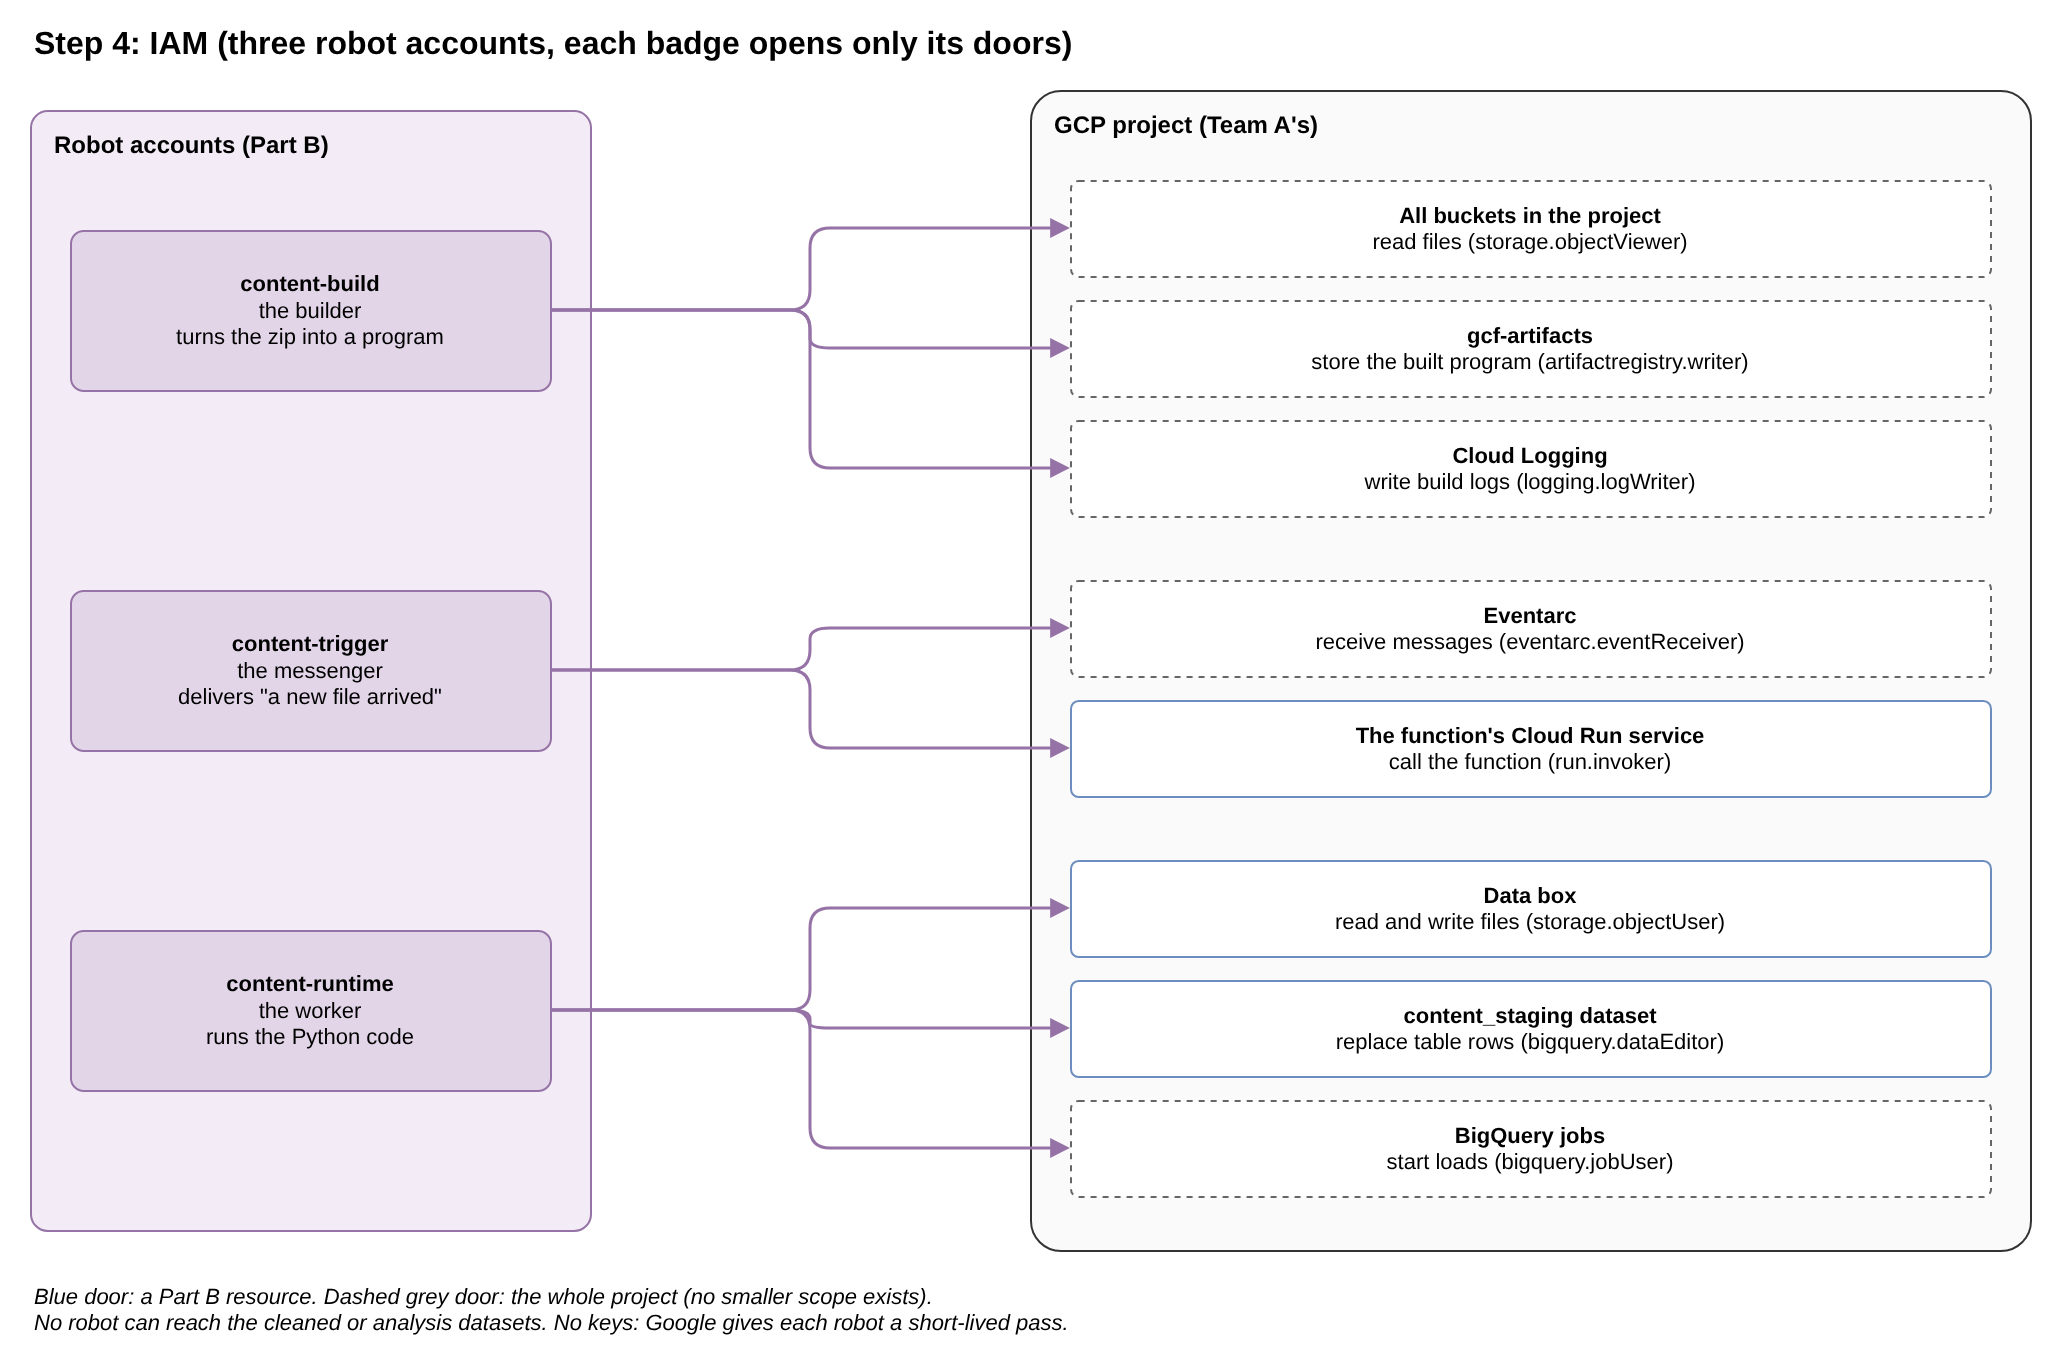
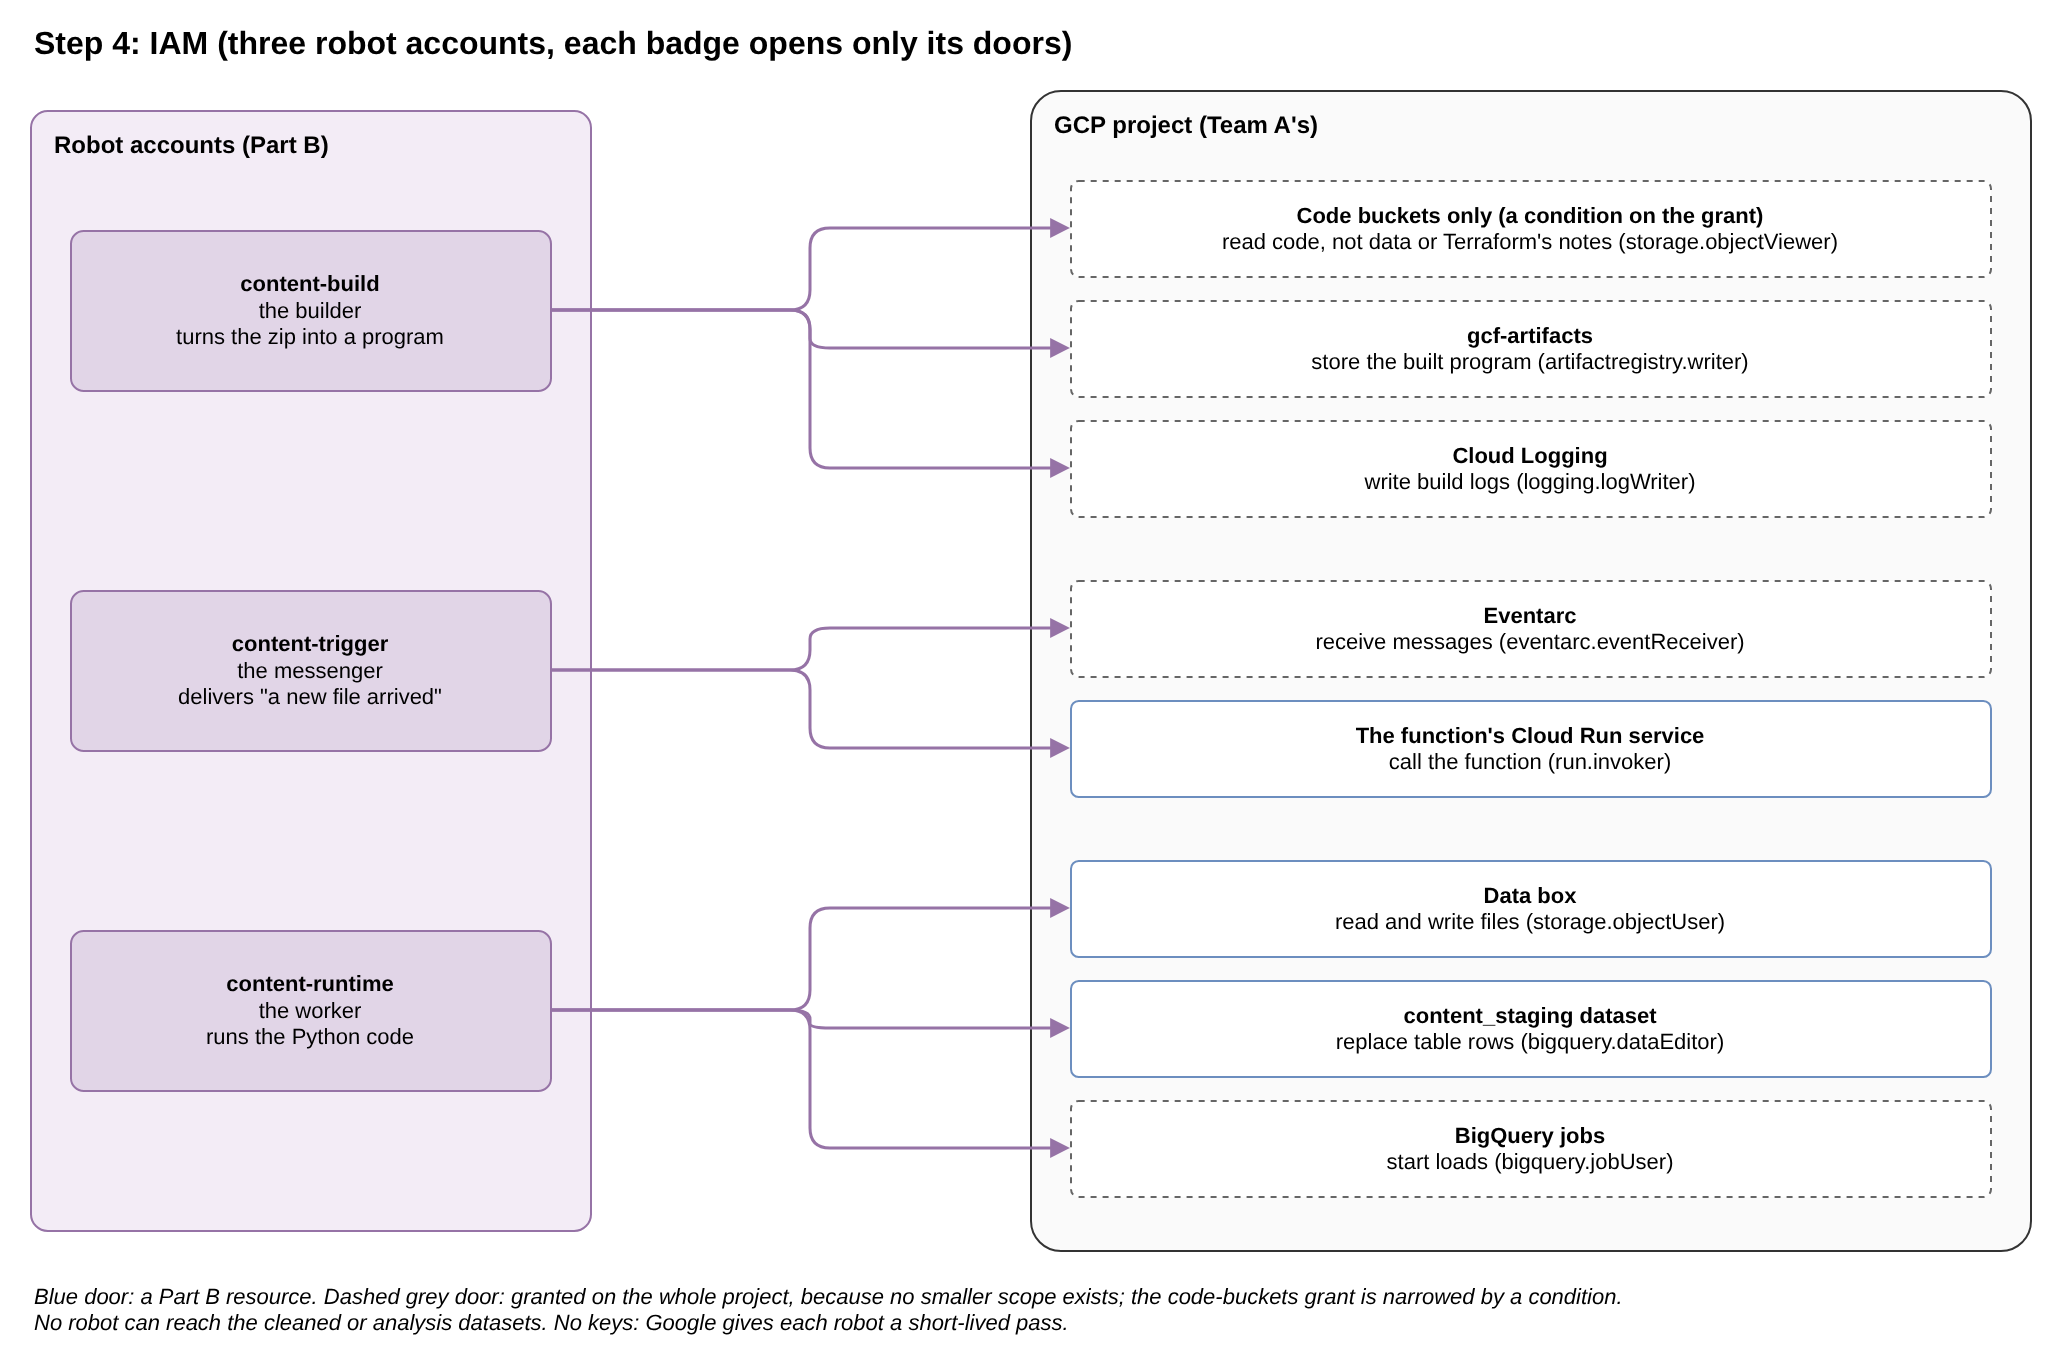
docs: limit the build account's bucket access with an IAM condition

Changed region(s): [[0.2483, 0.9231, 0.7139, 0.9538], [0.5897, 0.1538, 0.9001, 0.1846], [0.7449, 0.9231, 0.7759, 0.9538]]

diff --git a/review_plan/step-4_iam.md b/review_plan/step-4_iam.md
@@ -20,13 +20,15 @@ Three jobs in the pipeline are done by machines, not by people. Each job gets it
 
 | Robot account     | Its job                                        | Doors its badge opens                                                    |
 | ----------------- | ---------------------------------------------- | ------------------------------------------------------------------------ |
-| `content-build`   | **The builder:** turns the zip into a running program | Read the code; store the built program; write build logs          |
+| `content-build`   | **The builder:** turns the zip into a running program | Read the code (code boxes only); store the built program; write build logs |
 | `content-trigger` | **The messenger:** delivers "a new file arrived" to the function | Receive the messages; call the function                    |
 | `content-runtime` | **The worker:** runs the Python code           | Read and write files in the data box; fill the staging tables; start loads in BigQuery |
 
 **Why three robots, not one:** if one robot did everything, one stolen badge would open every door. With three, each badge opens only what its job needs. This is called **least privilege**.
 
-**What no robot can do:** touch the cleaned or analysis rooms in BigQuery, delete datasets, or change anything of Team A.
+**What no robot can do:** touch the cleaned or analysis rooms in BigQuery, read Terraform's notes (the state bucket), delete datasets, or change anything of Team A.
+
+**The builder's badge has a condition:** it may read files only in the boxes that hold code (Google's own code boxes and the pipeline's code box). It cannot read the data box or Terraform's notes.
 
 **No keys:** a robot never gets a password file. Google gives it a short-lived pass each time it works. Nothing secret can leak from the repository.
 
@@ -53,13 +55,14 @@ Three jobs in the pipeline are done by machines, not by people. Each job gets it
 
 ### Refinement
 
-M: accepted. G's new reason (step 3.1): accepted.
+M: accepted, then narrowed by M2 after the external review of the plan. G (step 3.1): its least-privilege reason holds again with M2.
 
 | ID  | Finding | Proposal |
 | --- | ------- | -------- |
 | M   | **The build account's file access is probably too narrow.** The plan grants `roles/storage.objectViewer` on the source bucket only. Google's current guide for a custom build service account lists 3 roles, all granted on the **project**. It names Google's own buckets (`gcf-v2-sources-*`, `gcf-v2-uploads-*`): Google appears to copy the code there before the build. Those buckets are created by Google on the first deploy, so they cannot be targeted in advance. With the bucket-level grant, the first deploy may fail on a permission error. | Grant `roles/storage.objectViewer` on the project, as Google's guide says. The total stays 8 grants. |
+| M2  | **M opens every bucket to the builder, including Terraform's state bucket.** The state file is the most sensitive file of the project, and a project-wide read does not fit the least-privilege story. Google's guide shows an IAM condition that limits the grant to Google's own code buckets. | Keep the project-level grant, with Google's condition, extended by the pipeline's source bucket. The builder reads only code. The total stays 8 grants. |
 
-**Effect on G (step 3.1):** with M, the build account can read every bucket in the project, including the data bucket. The 2 buckets stay; G's reason changes. The runtime account, which can **write**, reaches only the data bucket and cannot touch the code. Code and data also keep separate lifecycles.
+**Effect on G (step 3.1):** with M2, the build account reads only code buckets, never the data bucket. G's least-privilege reason holds: the build account reaches only code, the runtime account only data.
 
 <br>
 
@@ -84,7 +87,7 @@ M: accepted. G's new reason (step 3.1): accepted.
 | `content-runtime` | `roles/bigquery.jobUser`        | Project                         | `google_project_iam_member`              |
 | `content-trigger` | `roles/run.invoker`             | The function's Cloud Run service | `google_cloud_run_v2_service_iam_member` |
 | `content-trigger` | `roles/eventarc.eventReceiver`  | Project                         | `google_project_iam_member`              |
-| `content-build`   | `roles/storage.objectViewer`    | **Project** (M)                 | `google_project_iam_member`              |
+| `content-build`   | `roles/storage.objectViewer`    | **Project, with a condition: code buckets only** (M, M2) | `google_project_iam_member` with a `condition` block |
 | `content-build`   | `roles/artifactregistry.writer` | Project                         | `google_project_iam_member`              |
 | `content-build`   | `roles/logging.logWriter`       | Project                         | `google_project_iam_member`              |
 
@@ -95,8 +98,29 @@ M: accepted. G's new reason (step 3.1): accepted.
   - `run.invoker`: call the function (a Cloud Run function runs as a Cloud Run service).
   - `eventReceiver`: receive events from Eventarc.
   - The 3 build roles: Google's guide for a custom build service account.
-- **Project-level grants:** 5 (with M). They add to Team A's project; they remove nothing (S4.3).
+- **Project-level grants:** 5 (with M); the build account's `objectViewer` grant carries a condition (M2). They add to Team A's project; they remove nothing (S4.3).
 - **The `run.invoker` grant** targets the service that the function creates, so it is created after the function (S5.5).
+
+#### The condition on the build account's grant (M2)
+
+From Google's guide for a custom build service account, extended by the pipeline's source bucket:
+
+```hcl
+condition {
+  title       = "content-build-code-buckets-only"
+  description = "Read function code only: Google's code buckets and the content source bucket (M2)"
+  expression  = <<-EOT
+    resource.type == "storage.googleapis.com/Object" &&
+    (resource.name.startsWith("projects/_/buckets/gcf-v2-sources-") ||
+     resource.name.startsWith("projects/_/buckets/gcf-v2-uploads-") ||
+     resource.name.startsWith("projects/_/buckets/run-sources-") ||
+     resource.name.startsWith("projects/_/buckets/${google_storage_bucket.source.name}/"))
+  EOT
+}
+```
+
+- **Out of reach:** the data bucket and Team A's state bucket.
+- **The trailing `/` on the source bucket:** the condition matches that bucket only, not another bucket whose name starts the same way.
 
 #### Not needed
 
@@ -113,7 +137,7 @@ M: accepted. G's new reason (step 3.1): accepted.
 
 ### Check at implementation
 
-- **M:** whether the bucket-level grant on the source bucket alone is enough. If Google's guide still lists project level, keep M.
+- **M2:** that the first deploy succeeds with the condition. If the build fails on reading the code, the build log names the bucket it tried; check its prefix against the condition.
 
 <br>
 
@@ -131,6 +155,9 @@ Least privilege and keyless service accounts are core topics of the Professional
 **Considered: one robot instead of three.** It would be 2 resources fewer, but one badge would open every door, and the project would show nothing about least privilege. Keep three.
 
 **M. The builder's badge is probably too small (accepted).** The plan lets the builder read only the code box. Google's current guide says the builder must read files across the whole project, because Google first copies the code into its own boxes. Those boxes do not exist until the first deploy, so the plan cannot point at them.
-→ Follow Google's guide: the builder may read files in the whole project. Otherwise the first deploy may fail.
+→ Follow Google's guide: the builder may read files across the project. Otherwise the first deploy may fail.
 
-**Effect on G (step 3.1):** the builder can then also read the data box, so G's reason must change. Two boxes still make sense: the worker, which can **write**, reaches only the data box and cannot touch the code.
+**M2. But not every file (accepted, after the external review).** M alone would let the builder read every box, including Terraform's notes, the most sensitive file of the project. Google's guide also shows how to narrow it: a **condition** on the badge, "only boxes whose names start with Google's code prefixes".
+→ The builder reads only code: Google's code boxes and the pipeline's code box. The data box and Terraform's notes stay out of reach.
+
+**Effect on G (step 3.1):** with M2, the builder reads only code and the worker only data, so G's least-privilege reason holds.

diff --git a/review_plan/step-3.1_storage.md b/review_plan/step-3.1_storage.md
@@ -93,7 +93,7 @@ Source: the data glossary in the [brainstorming README](../brainstorming/README.
 
 | ID  | Decision | Why |
 | --- | -------- | --- |
-| G   | **2 buckets: the runtime account cannot touch the code, and code and data keep separate lifecycles.** The runtime account, which can write, reaches only the data bucket. Data is uploaded and replaced; code changes only on deploy. | The plan's earlier reason ("a zip in the data bucket would fire the trigger on every deploy") is weak: the function ignores every file except `_READY`. The first review reason ("the build account reads only the source bucket") no longer holds after M (step 4): the build account reads every bucket in the project. |
+| G   | **2 buckets, for least privilege and separate lifecycles.** The build account reads only code buckets (step 4, M2); the runtime account, which can write, reaches only the data bucket. Data is uploaded and replaced; code changes only on deploy. | The plan's earlier reason ("a zip in the data bucket would fire the trigger on every deploy") is weak: the function ignores every file except `_READY`. |
 
 <br>
 
@@ -152,9 +152,8 @@ One zip file per code version: `function-source-<md5 of zip>.zip` (part 2, the f
 - **Reload without Python:** the processed files stay too, so BigQuery can be reloaded without running Python again.
 - **One name through every layer:** `blog_posts.json`, then `blog_posts.ndjson`, then the table `blog_posts`.
 
-**Correction G (decided, reason updated in step 4):** the design is right, but its reason was weak. The plan said the code zip needs its own box because otherwise "every deploy would wake the function". That is not a real problem: the function ignores every file except `_READY` and stops at once. The real reasons:
+**Correction G (decided; reason confirmed by M2 in step 4):** the design is right, but its reason was weak. The plan said the code zip needs its own box because otherwise "every deploy would wake the function". That is not a real problem: the function ignores every file except `_READY` and stops at once. The real reasons:
 
 - **The worker cannot touch the code:** the account that runs the function can **write**, and it reaches only the data box.
 - **Code and data have different lives:** the data is uploaded and replaced; the code changes only on deploy.
-
-The builder is not part of the reason: Google's guide lets it read every box in the project (step 4, M).
+- **The builder reads only code:** a condition on its badge limits it to code boxes (step 4, M2), so it cannot read the data.

diff --git a/review_plan/step-8_build-phases.md b/review_plan/step-8_build-phases.md
@@ -133,7 +133,7 @@ T and U: accepted.
 | Item     | Content                                                                     |
 | -------- | --------------------------------------------------------------------------- |
 | Branch   | `feat/function-and-trigger`                                                  |
-| Files    | `iam.tf` (3 accounts, 8 grants, M); `function.tf` (zip, upload, function, `depends_on`); `main.py` gains the event entry point `handle_event` (15-minute limit H, count check I); `outputs.tf` gains `function_name` (U); `scripts/upload_data.sh` (data folder as argument, default `data/dummy`) |
+| Files    | `iam.tf` (3 accounts, 8 grants, M with the condition M2); `function.tf` (zip, upload, function, `depends_on`); `main.py` gains the event entry point `handle_event` (15-minute limit H, count check I); `outputs.tf` gains `function_name` (U); `scripts/upload_data.sh` (data folder as argument, default `data/dummy`) |
 | First `apply` | On a permission error, run `apply` again (S5.3)                         |
 | Done when | Logs: 2 working runs, 12 that end at once; `processed/` holds 6 files; `data_checks.sql` as in phase 4; no count `ERROR` in the logs; a second upload gives the same counts |
 

diff --git a/review_plan/step-5_dependencies.md b/review_plan/step-5_dependencies.md
@@ -60,7 +60,7 @@ These hints are called `depends_on`. They are used only in these two places.
 
 None. The step is consistent with the decisions of steps 1 to 4:
 
-- **M (step 4):** the build account's `objectViewer` grant moves to the project; it stays in the function's `depends_on`.
+- **M and M2 (step 4):** the build account's `objectViewer` grant moves to the project, with a condition; it stays in the function's `depends_on`.
 - **K (step 3.3):** this step already says `deletion_protection = false` for tables **and** views.
 - **H (step 3.2):** the 15-minute age limit does not change any order.
 
